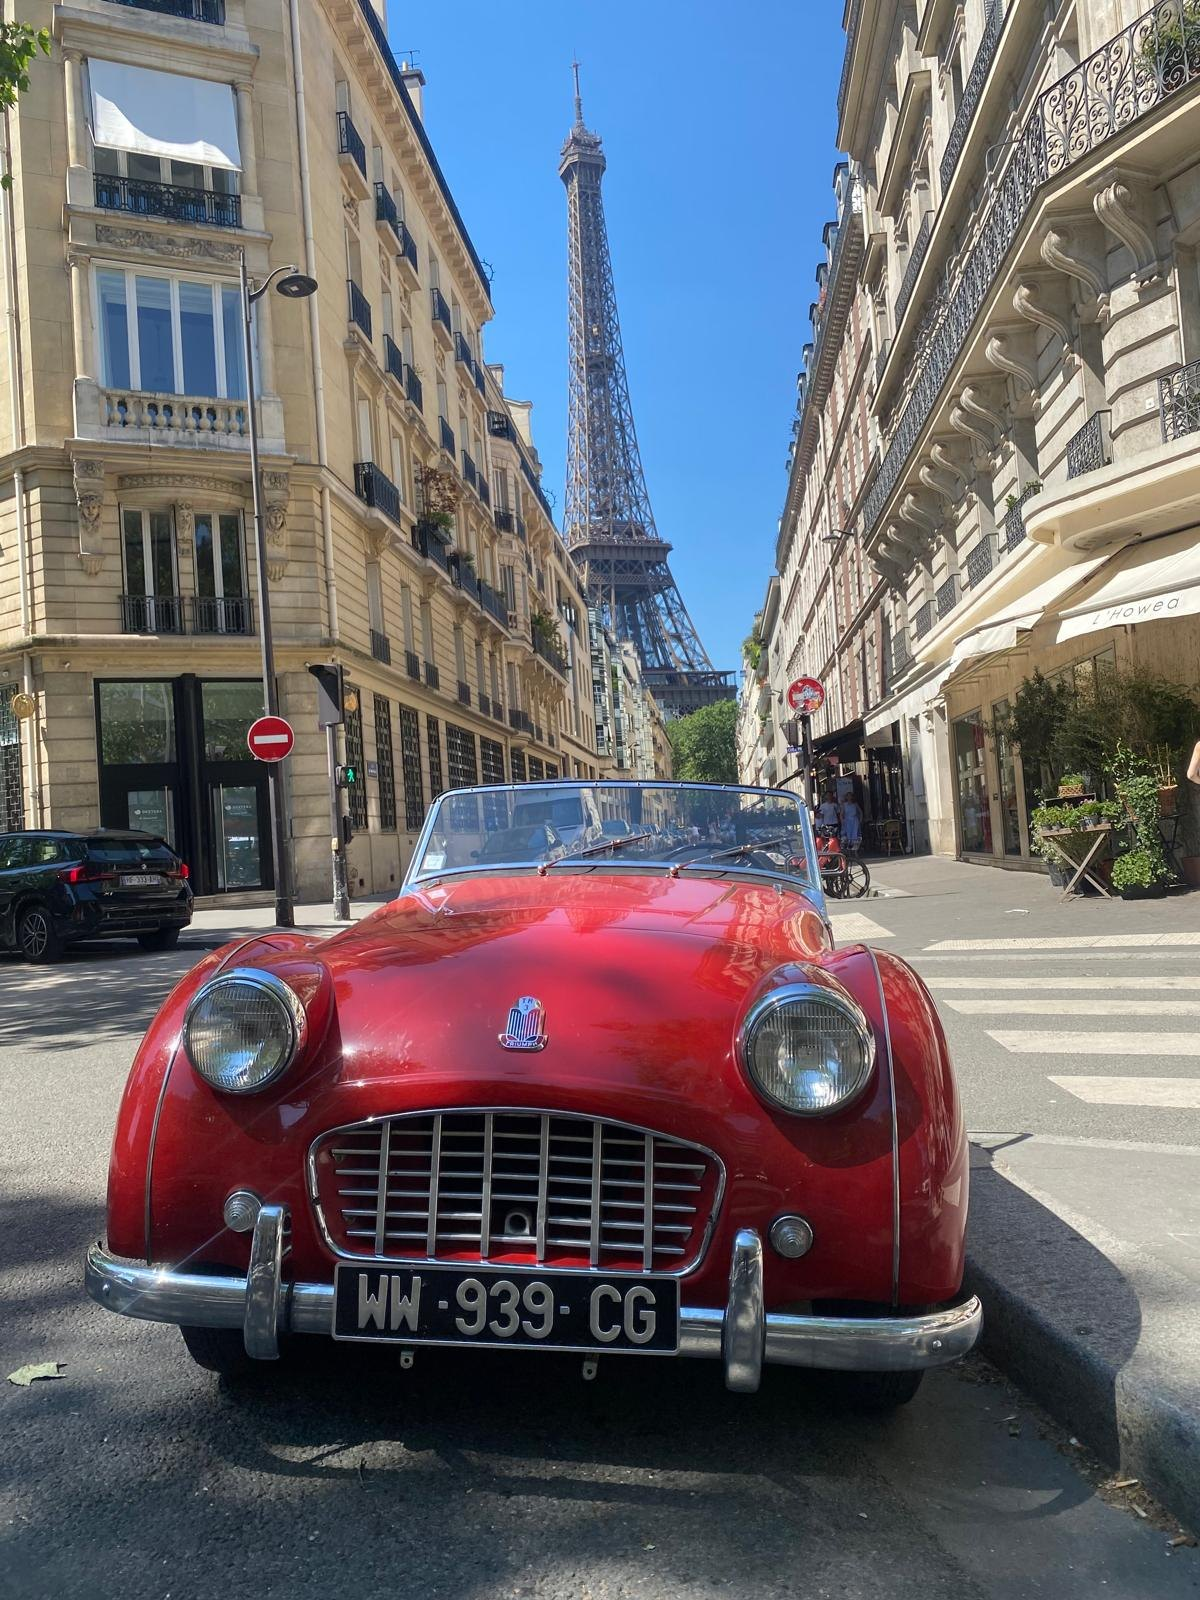
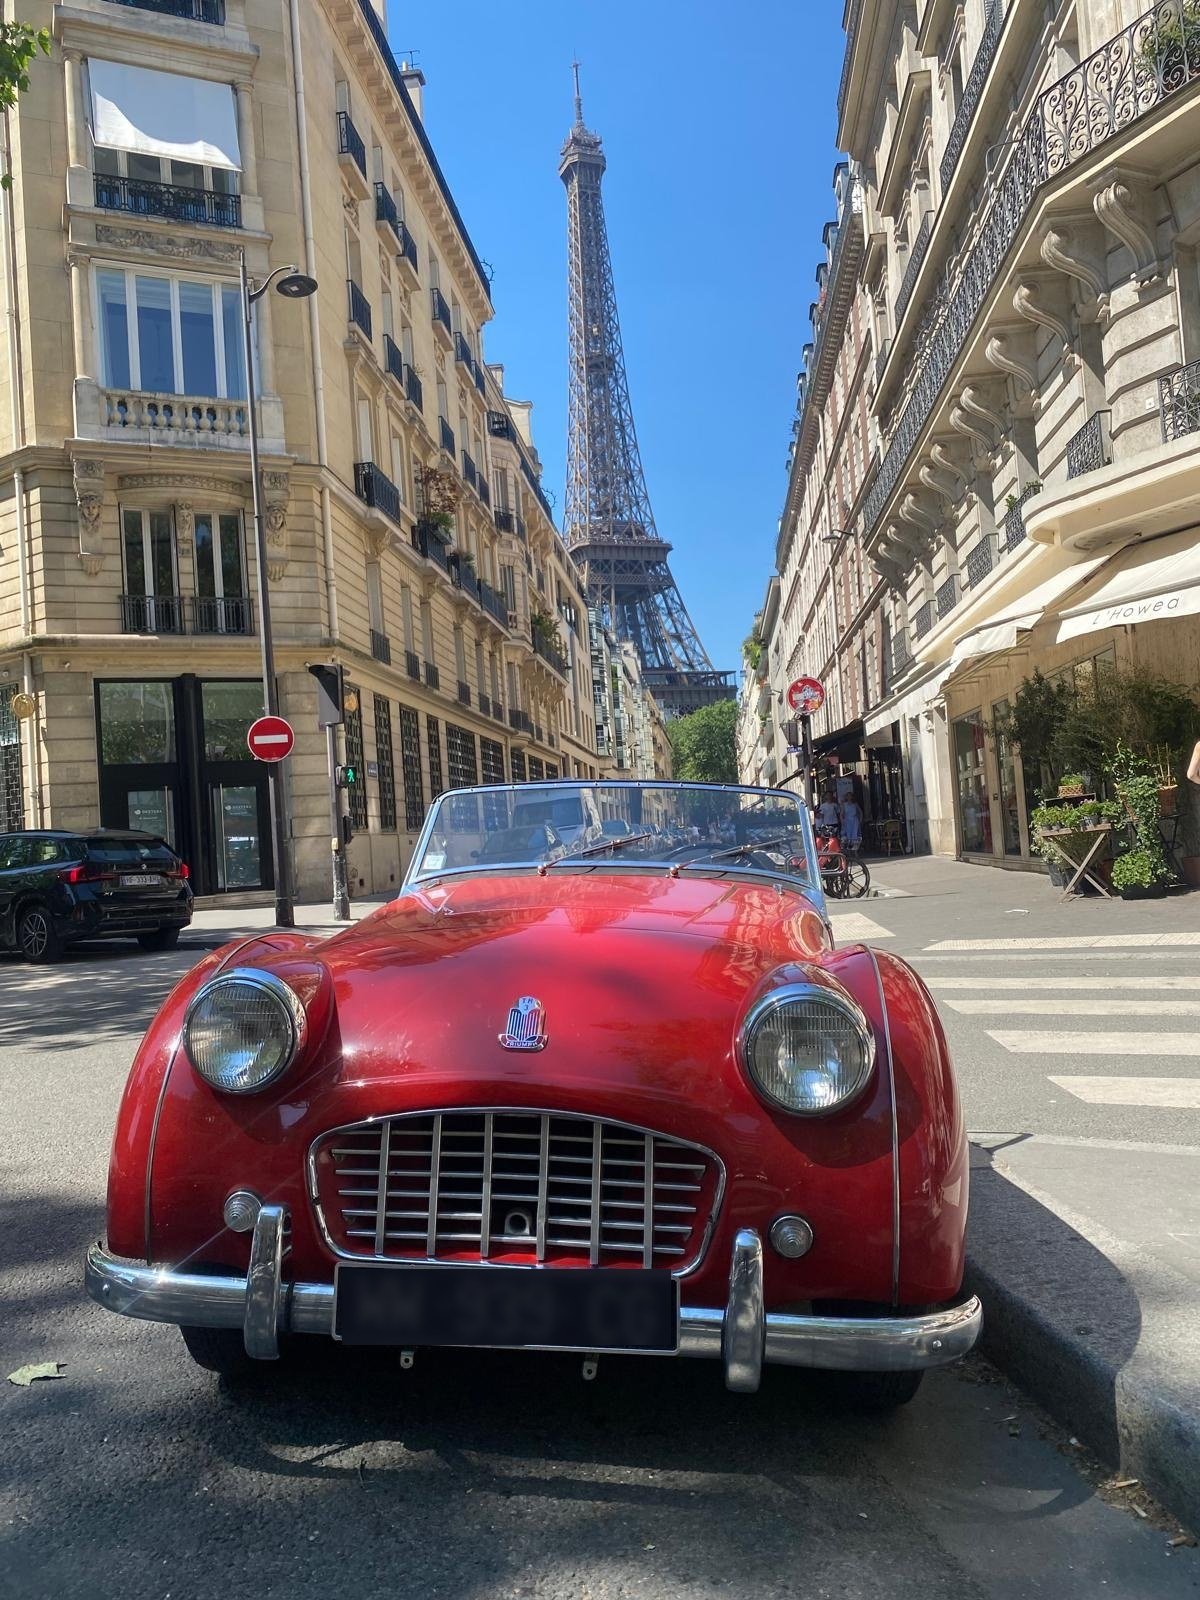
TR3 Ted : plaques WW masquées (photos champs et tour Eiffel)
Claude-Session: https://claude.ai/code/session_015zE2JJ3HNC766fTEhLU1AA

Changed region(s): [[0.2775, 0.7812, 0.555, 0.8438]]

diff --git a/index.html b/index.html
@@ -608,8 +608,8 @@ footer{border-top:1px solid rgba(168,123,79,.3)!important}
         "img/tr3t-4.jpg",
         "img/tr3t-5.jpg",
         "img/tr3t-6.jpg",
-        "img/tr3t-7.jpg",
-        "img/tr3t-8.jpg"
+        "img/tr3t-7.jpg?v=2",
+        "img/tr3t-8.jpg?v=2"
       ],
       "videos": [
         {
